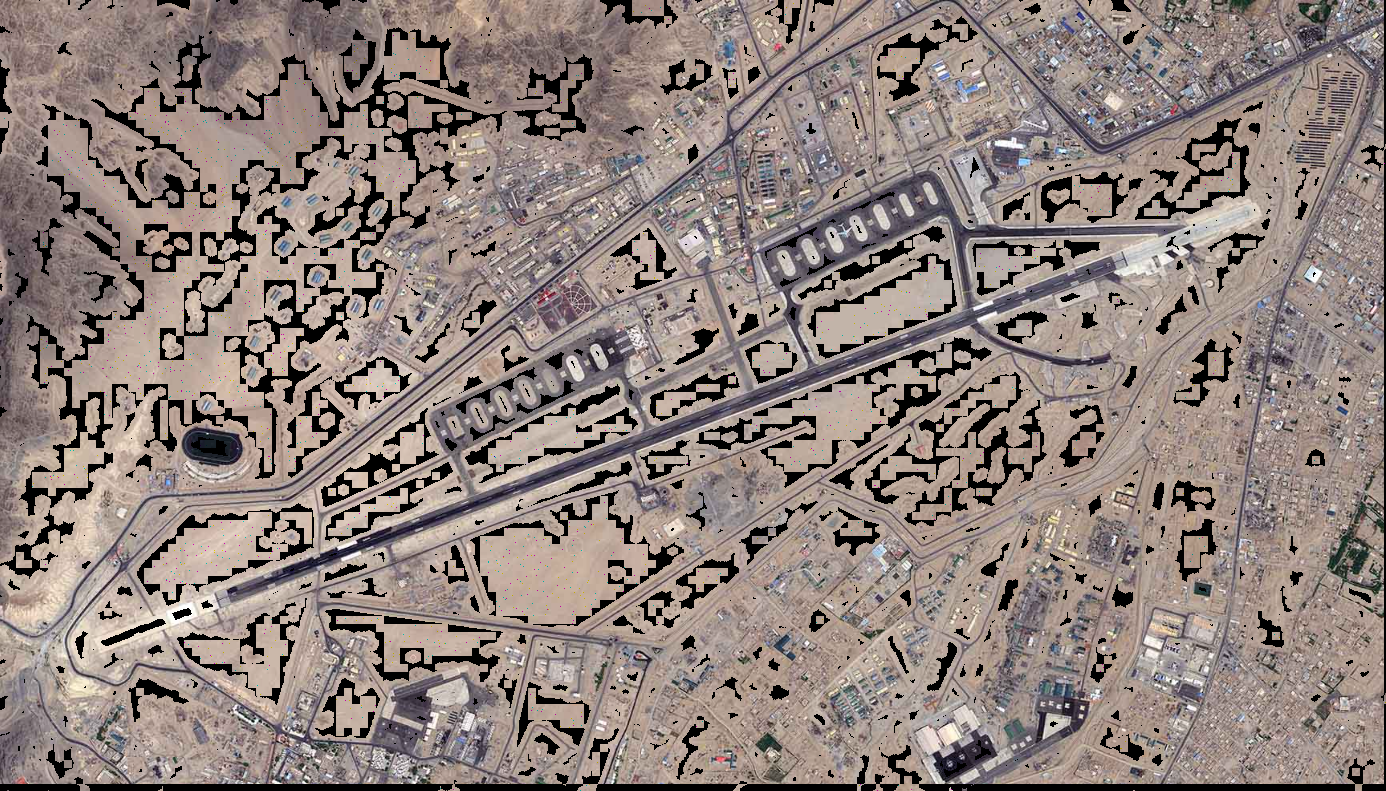
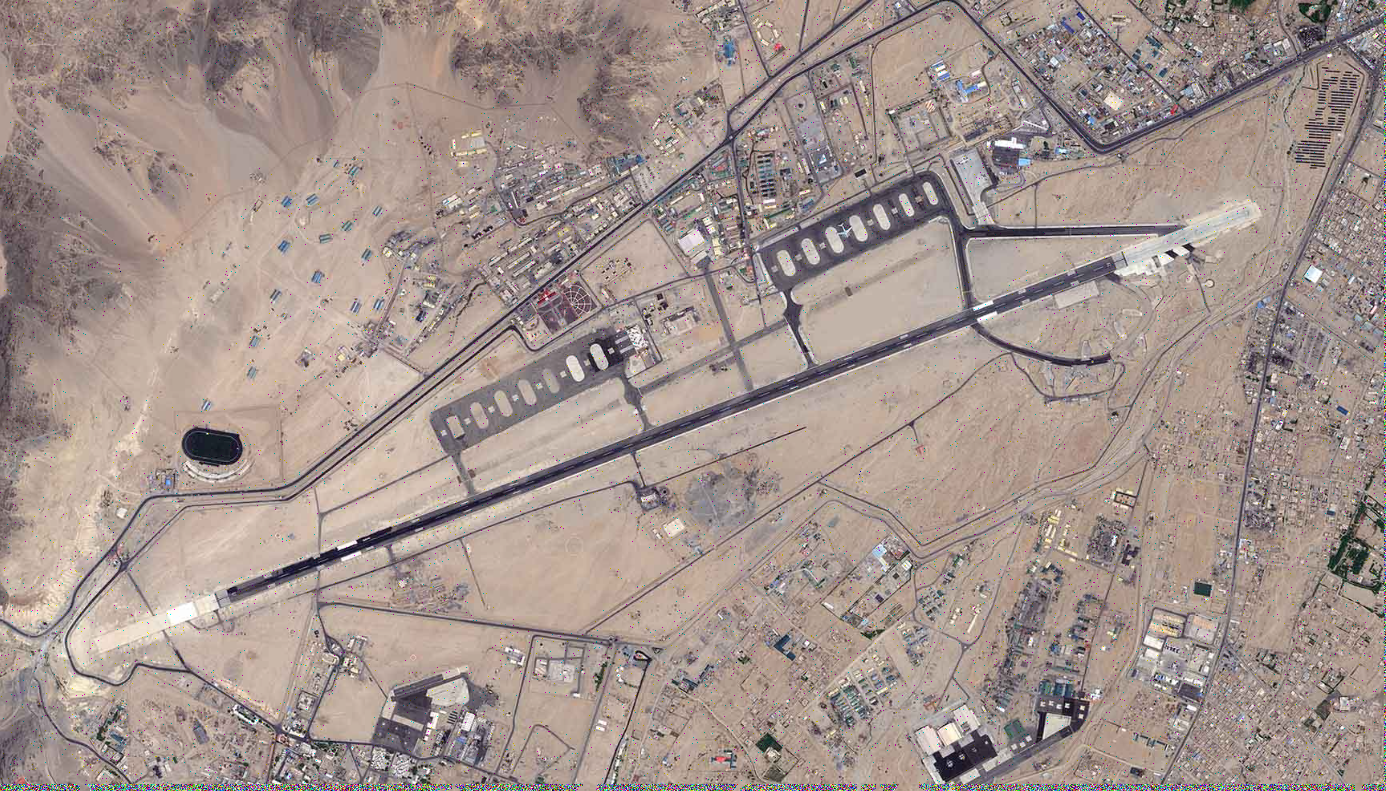
Clean up unnecessary output files - keep only essential encrypted and decrypted images

diff --git a/main.py b/main.py
@@ -141,6 +141,7 @@ def extract_roi_with_8x8_blocking(image: np.ndarray, roi_mask: np.ndarray) -> di
 def encrypt_roi_blocks(roi_blocks: list, master_seed: int) -> tuple:
     """
     Encrypt each 8x8 ROI block using NEQR + quantum scrambling.
+    Only encrypts non-zero pixels within each block.
     Returns encrypted blocks AND the keys for decryption.
     """
     encrypted_blocks = []
@@ -161,7 +162,8 @@ def encrypt_roi_blocks(roi_blocks: list, master_seed: int) -> tuple:
                 seed = (master_seed + block_idx * 3 + ch) % (2**31)
                 np.random.seed(seed)
                 chaos_key = np.random.randint(0, 256, channel.shape, dtype=np.uint8)
-                encrypted_block[:, :, ch] = (channel ^ chaos_key)
+                # Only encrypt non-zero pixels within block
+                encrypted_block[:, :, ch] = np.where(channel > 0, channel ^ chaos_key, 0).astype(np.uint8)
                 block_key[:, :, ch] = chaos_key
         else:
             # Grayscale block
@@ -169,7 +171,7 @@ def encrypt_roi_blocks(roi_blocks: list, master_seed: int) -> tuple:
             seed = (master_seed + block_idx) % (2**31)
             np.random.seed(seed)
             chaos_key = np.random.randint(0, 256, channel.shape, dtype=np.uint8)
-            encrypted_block = (channel ^ chaos_key)
+            encrypted_block = np.where(channel > 0, channel ^ chaos_key, 0).astype(np.uint8)
             block_key = chaos_key
         
         encrypted_blocks.append(encrypted_block)
@@ -186,7 +188,7 @@ def encrypt_roi_blocks(roi_blocks: list, master_seed: int) -> tuple:
 def encrypt_background(background_image: np.ndarray, master_seed: int) -> np.ndarray:
     """
     Encrypt background using chaos-based encryption (HLSM).
-    Zero pixels stay zero (they're not ROI).
+    Only encrypts non-zero pixels (actual background data).
     """
     print(f"\n  [Stage 4] Chaos Cipher Encryption (Background)")
     
@@ -197,14 +199,14 @@ def encrypt_background(background_image: np.ndarray, master_seed: int) -> np.nda
             seed = (master_seed + ch + 100) % (2**31)
             np.random.seed(seed)
             chaos_key = np.random.randint(0, 256, channel.shape, dtype=np.uint8)
-            # Only encrypt non-zero pixels (actual background)
-            encrypted_bg[:, :, ch] = np.where(channel > 0, channel ^ chaos_key, 0)
+            # Only encrypt non-zero pixels (actual background, not ROI zeros)
+            encrypted_bg[:, :, ch] = np.where(channel > 0, channel ^ chaos_key, 0).astype(np.uint8)
     else:
         channel = background_image.astype(np.uint8)
         seed = (master_seed + 100) % (2**31)
         np.random.seed(seed)
         chaos_key = np.random.randint(0, 256, channel.shape, dtype=np.uint8)
-        encrypted_bg = np.where(channel > 0, channel ^ chaos_key, 0)
+        encrypted_bg = np.where(channel > 0, channel ^ chaos_key, 0).astype(np.uint8)
     
     print(f"           Background encrypted")
     return encrypted_bg
@@ -252,12 +254,13 @@ def decrypt_roi_blocks(encrypted_blocks: list, master_seed: int) -> list:
                 seed = (master_seed + block_idx * 3 + ch) % (2**31)
                 np.random.seed(seed)
                 chaos_key = np.random.randint(0, 256, channel.shape, dtype=np.uint8)
-                decrypted_block[:, :, ch] = (channel ^ chaos_key)
+                # Decrypt all pixels uniformly
+                decrypted_block[:, :, ch] = (channel ^ chaos_key).astype(np.uint8)
         else:
             seed = (master_seed + block_idx) % (2**31)
             np.random.seed(seed)
             chaos_key = np.random.randint(0, 256, block.shape, dtype=np.uint8)
-            decrypted_block = (block ^ chaos_key)
+            decrypted_block = (block ^ chaos_key).astype(np.uint8)
         
         decrypted_blocks.append(decrypted_block)
     
@@ -273,14 +276,14 @@ def decrypt_background(encrypted_bg: np.ndarray, master_seed: int) -> np.ndarray
             seed = (master_seed + ch + 100) % (2**31)
             np.random.seed(seed)
             chaos_key = np.random.randint(0, 256, channel.shape, dtype=np.uint8)
-            # Only decrypt non-zero pixels
-            decrypted_bg[:, :, ch] = np.where(channel > 0, channel ^ chaos_key, 0)
+            # Decrypt all pixels uniformly (XOR is self-inverse)
+            decrypted_bg[:, :, ch] = (channel ^ chaos_key).astype(np.uint8)
     else:
         channel = encrypted_bg.astype(np.uint8)
         seed = (master_seed + 100) % (2**31)
         np.random.seed(seed)
         chaos_key = np.random.randint(0, 256, channel.shape, dtype=np.uint8)
-        decrypted_bg = np.where(channel > 0, channel ^ chaos_key, 0)
+        decrypted_bg = (channel ^ chaos_key).astype(np.uint8)
     
     return decrypted_bg
     
@@ -401,11 +404,6 @@ def main():
         output_folder.mkdir(parents=True, exist_ok=True)
         decrypted_folder.mkdir(parents=True, exist_ok=True)
         
-        # Save extracted ROI and background
-        save_image(output_folder / "extracted_roi.png", roi_image)
-        save_image(output_folder / "extracted_background.png", background_image)
-        print(f"\nSaved: extracted_roi.png, extracted_background.png")
-        
         # ====== STAGE 3: ENCRYPT ROI BLOCKS ======
         t0 = time.time()
         encrypted_blocks, block_keys = encrypt_roi_blocks(roi_blocks, master_seed)
@@ -439,11 +437,24 @@ def main():
         decrypted_blocks = decrypt_roi_blocks(encrypted_blocks_extracted, master_seed)
         decrypted_bg = decrypt_background(encrypted_bg, master_seed)
         
-        # Reconstruct decrypted image
+        # Reconstruct decrypted image using roi_mask to preserve structure
         decrypted_image = decrypted_bg.copy()
+        roi_binary = extraction_result['roi_mask']
         for block_idx, (y, x) in enumerate(block_positions):
             block_size = 8
-            decrypted_image[y:y+block_size, x:x+block_size] = decrypted_blocks[block_idx]
+            # Only place decrypted block in ROI areas (where roi_mask > 0)
+            mask_block = roi_binary[y:y+block_size, x:x+block_size]
+            decrypted_block = decrypted_blocks[block_idx]
+            # Copy only where mask indicates ROI
+            if len(decrypted_block.shape) == 3:
+                for ch in range(3):
+                    decrypted_image[y:y+block_size, x:x+block_size, ch] = np.where(
+                        mask_block > 0, decrypted_block[:, :, ch], decrypted_image[y:y+block_size, x:x+block_size, ch]
+                    ).astype(np.uint8)
+            else:
+                decrypted_image[y:y+block_size, x:x+block_size] = np.where(
+                    mask_block > 0, decrypted_block, decrypted_image[y:y+block_size, x:x+block_size]
+                ).astype(np.uint8)
         
         print(f"           Time: {time.time()-t0:.2f}s")
         
